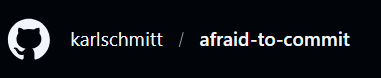
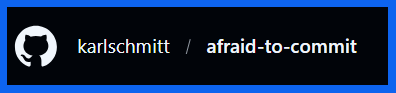
Feierabend checkin :-)

diff --git a/Tools/Gimp/light_blue_frame.md b/Tools/Gimp/light_blue_frame.md
@@ -1,0 +1,62 @@
+---
+id: 20260529090522
+title: How to add a light blue frame around an image?
+author: Karl Schmitt
+date: 2026-05-29
+keywords: [ gimp, frame ]
+---
+
+# How to add a light blue frame 🖼 around an image?
+
+To add a light blue frame around a PNG image in GIMP, 
+you need to _expand the canvas, add a new layer, and fill it with color_.
+
+## 1. Open and Prepare Your Image 📷
+
+* Open your PNG file in GIMP.
+* Go to Layer ➡ Layer to Image Size.
+    * Ebene ➡ Ebenen auf Bildgröße
+
+## 2. Expand the Canvas 🎨
+
+* Go to Image ➡ Canvas Size.
+    * Ebene ➡ Ebenengröße ...
+* Increase the Width and Height by your desired border thickness (e.g., add 10 pixels to each).
+* Click the Center button «Zentrieren» to automatically position your image in the middle.
+* Click Resize
+    * Schaltfläche: Größe ändern
+
+    ![Ebene Ebenengröße](./Images/Ebene-Ebenengröße.png)
+
+## 3. Create the Frame Layer
+
+* Go to Layer  ➡ New Layer.
+* Name it "Frame" and select Transparency for the fill type.
+* Click OK.
+* Drag this new layer _below_ your original image layer in the Layers panel. 
+
+![Eine neue Ebene erstellen](./Images/Eine_neue_Ebene_erstellen.png)
+
+![Ebenen Fenster](./Images/Ebenen-Fenster.png)
+
+## 4. Color the Frame Light Blue 🖌
+
+* Click on your Foreground Color square (the top color box in the toolbox).
+* Choose a light blue color and click OK.
+* Click on the Bucket Fill Tool (or press `Shift + B`).
+* Ensure "Fill whole selection" is checked in the tool options.
+* Click anywhere on the transparent canvas background outside your image.
+
+## 5. Export Your Final Image 🚚
+
+* Go to File ➡ Export As.
+* Name your file and keep the `.png` extension to preserve any remaining transparency.
+* Click Export.
+
+If you want to customize this further, tell me:
+
+* Do you want the frame to have rounded corners?
+* Do you need a multi-colored or gradient border?
+* Should the frame overlap the image edges or sit entirely outside it?
+
+I can provide the exact adjustments for any style you prefer.

diff --git a/Programming/Linux/Git/Git-Rebase_001.md b/Programming/Linux/Git/Git-Rebase_001.md
@@ -3,7 +3,7 @@ id: 20260520165415
 title: How to Git rebase using PowerShell?
 auhor: Karl Schmitt
 date: 2026-05-20
-keywords: [ git, rebase, PowerShell ]
+keywords: [ git, rebase, PowerShellm Meld ]
 ---
 ![Rebase via PowerShell](./Images/Rebase-Anleitung_für_die_Kommandozeile.png)
 
@@ -41,7 +41,6 @@ Follow the white rabbit 🐇:
 ### 3. Pulling with Rebase
 
 Instead of creating a "merge commit" every time you pull from the server, you can rebase your local changes on top of the incoming changes:
-
 ```powershell
 git pull --rebase origin main
 git pull --rebase origin dev
@@ -68,6 +67,7 @@ Follow the white rabbit 🐇: [Conflict Resolution](./Atoms/Git_rebase_conflict_
 ---
 
 ### 5. Pushing after a Rebase
+
 Because `rebase` rewrites history, a standard `git push` will be rejected by the server. You must "force" it.
 
 **Warning:** Only do this on your own feature branch. Never do this on a shared branch like `main`.
@@ -76,7 +76,6 @@ Because `rebase` rewrites history, a standard `git push` will be rejected by the
 # The "safer" way to force push
 git push --force-with-lease
 ```
-
 ---
 
 ### PowerShell Tips for Git
@@ -91,12 +90,14 @@ Add-PoshGitToProfile
 ```
 
 #### 2. Set your Default Editor
+
 If `git rebase -i` opens an editor you don't like (like Vim), you can change it to VS Code:
 ```powershell
 git config --global core.editor "code --wait"
 ```
 
 #### 3. Common Shortcuts (Aliases)
+
 You can add these to your PowerShell Profile (`$PROFILE`) to work faster:
 ```powershell
 function g-rbm { git rebase main }
@@ -104,3 +105,7 @@ function g-rbd { git rebase dev }
 function g-ri { git rebase -i "HEAD~$args" }
 ```
 Then you could just type `g-ri 5` to start an interactive rebase of the last 5 commits.
+
+### Using Meld as Your Git Merge Tool
+
+[Using Meld as Your Git Merge Tool](./Atomds/Using_meld_for_git_rebase.md)

diff --git a/Programming/Linux/Git/Atoms/Git_Rebase_Tutorial_with_Visual_Studio_Code.md b/Programming/Linux/Git/Atoms/Git_Rebase_Tutorial_with_Visual_Studio_Code.md
@@ -97,7 +97,7 @@ I will use my sandbox on [GitHub](https://github.com/):
 
 ![afraid to commit](../Images/afraid-to-commit.png)
 
-Let's add a test html file using the 🔗 [template](https://www.freecodecamp.org/news/html-starter-template-a-basic-html5-boilerplate-for-index-html/) from free code camp:
+Let's add a test HTML file using the 🔗 [template](https://www.freecodecamp.org/news/html-starter-template-a-basic-html5-boilerplate-for-index-html/) from free code camp:
 
 ![add file button](../Images/add-file-button.png)
 
@@ -130,8 +130,8 @@ In case you get stuck feel free to ask GitHub Copilot for help: ![GitHub Copilot
 1. Klick on the test.html file it will open the Web editor
 2. Klick on the pencile icon on the right and select "in place"
 3. Now you can edit the file
-4. Change the <title> tag
-5. Change the <h1> tag to the string "First changes in main branch"
+4. Change the HTML <title> tag
+5. Change the HTML <h1> tag to the string "First changes in main branch"
 6. Add an ordered list <ol> with three list items <li>
 7. And commit the changes as revision "B"
 
